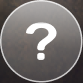
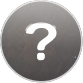
upd: updated ui elements

diff --git a/lib/pages/horoscope_selection/horoscope_section_widget.dart b/lib/pages/horoscope_selection/horoscope_section_widget.dart
@@ -491,9 +491,6 @@ class _HoroscopeSelectionWidget extends StatelessWidget {
   @override
   Widget build(BuildContext context) {
     return Container(
-      child: ClipOval(
-        child: Image.asset('assets/images/question_mark.png'),
-      ),
       width: MediaQuery.of(context).size.width * 0.3,
       height: MediaQuery.of(context).size.height * 0.15,
       decoration: BoxDecoration(
@@ -506,7 +503,7 @@ class _HoroscopeSelectionWidget extends StatelessWidget {
         ],
         gradient: LinearGradient(
           colors: [
-            Color.fromARGB(255, 52, 52, 52),
+            Color.fromARGB(255, 74, 73, 73),
             Color.fromARGB(255, 30, 29, 29)
           ],
           stops: [0.0, 1.0],
@@ -514,6 +511,28 @@ class _HoroscopeSelectionWidget extends StatelessWidget {
           end: AlignmentDirectional(0, 1.0),
         ),
         borderRadius: BorderRadius.circular(20.0),
+      ),
+      child: Container(
+        // padding: EdgeInsets.only(bottom: 10),
+        child: Column(
+          children: [
+            Transform.scale(
+              scale: 0.7,
+              child: Image.asset(
+                'assets/images/question_mark.png',
+              ),
+            ),
+            Expanded(
+              child: Text(
+                'Seciniz',
+                style: GoogleFonts.playfairDisplay(
+                  color: Colors.white,
+                  fontSize: 16.0,
+                ),
+              ),
+            )
+          ],
+        ),
       ),
     );
   }
@@ -574,10 +593,10 @@ class _HoroscopeContainerColumn extends StatelessWidget {
           ),
           Expanded(
             child: Text(
-              'Başak Kadını',
+              'Basak Kadını',
               style: GoogleFonts.playfairDisplay(
                 color: Colors.white,
-                fontSize: 15.0,
+                fontSize: 16.0,
               ),
             ),
           ),
